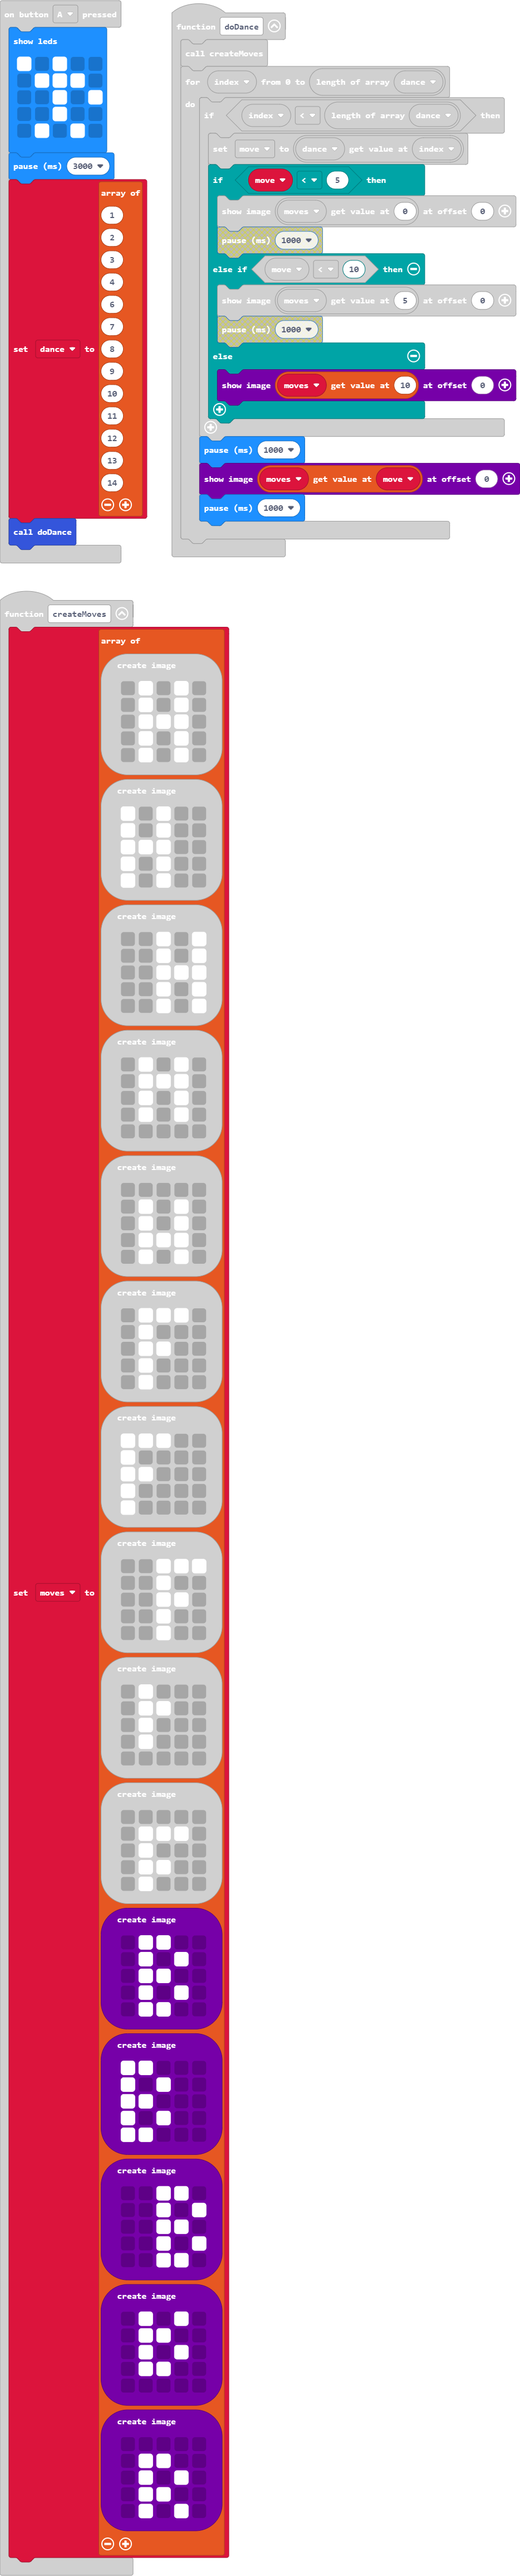
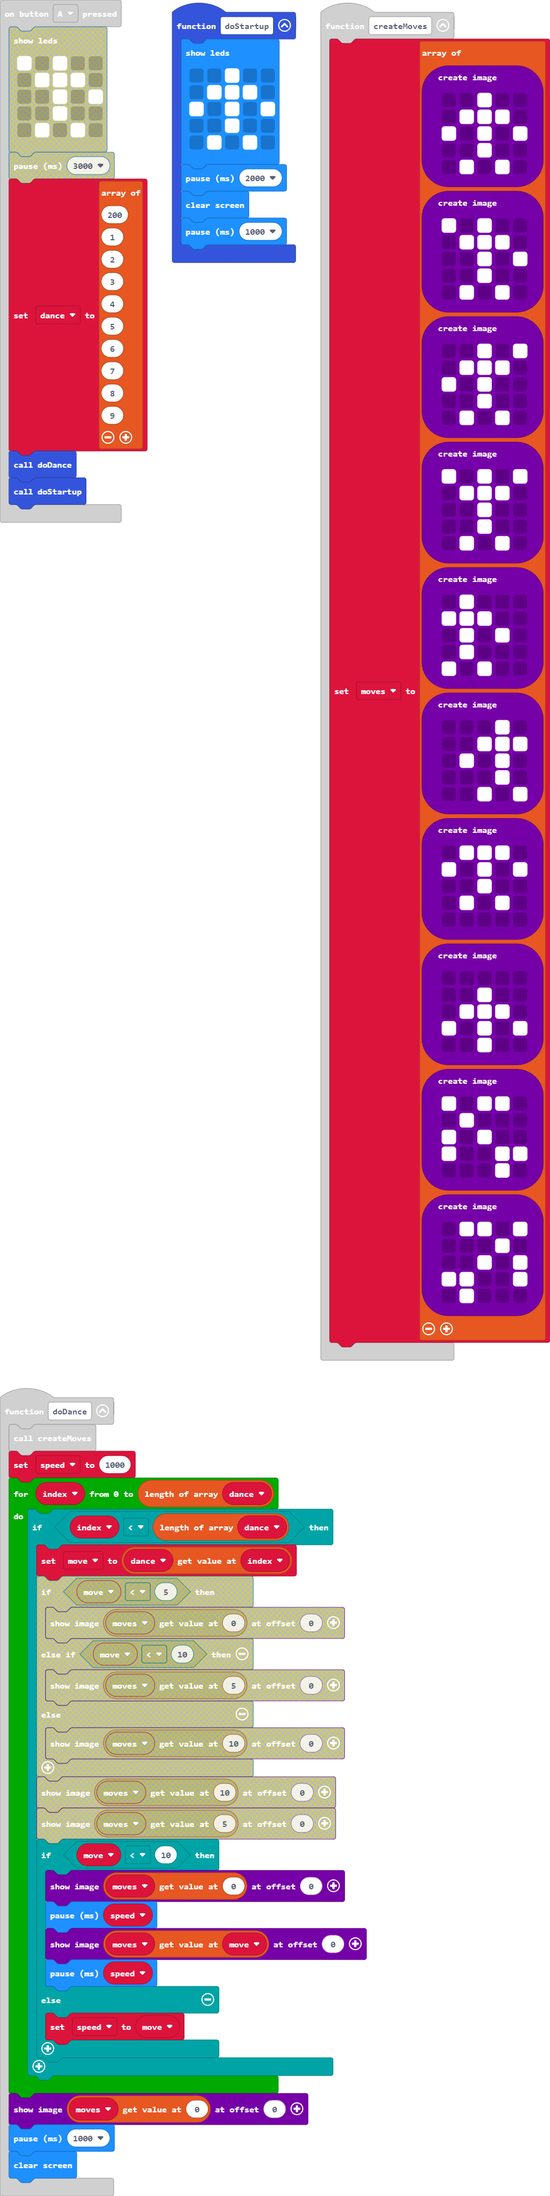
Update main.blocks, main.ts

diff --git a/main.ts b/main.ts
@@ -1,156 +1,126 @@
 let moves: Image[] = []
 let dance: number[] = []
+let speed = 0
 let move = 0
 function createMoves () {
     moves = [
     images.createImage(`
-        . # . # .
-        . # . # .
+        . . # . .
         . # # # .
-        . # . # .
+        # . # . #
+        . . # . .
         . # . # .
         `),
     images.createImage(`
         # . # . .
+        . # # # .
+        . . # . #
+        . . # . .
+        . # . # .
+        `),
+    images.createImage(`
+        . . # . #
+        . # # # .
         # . # . .
+        . . # . .
+        . # . # .
+        `),
+    images.createImage(`
+        # . # . #
+        . # # # .
+        . . # . .
+        . . # . .
+        . # . # .
+        `),
+    images.createImage(`
+        . # . . .
         # # # . .
-        # . # . .
+        . # . # .
+        . # . . .
         # . # . .
         `),
     images.createImage(`
-        . . # . #
-        . . # . #
+        . . . # .
         . . # # #
+        . # . # .
+        . . . # .
         . . # . #
-        . . # . #
         `),
     images.createImage(`
-        . # . # .
         . # # # .
-        . # . # .
+        # . # . #
+        . . # . .
         . # . # .
         . . . . .
         `),
     images.createImage(`
         . . . . .
-        . # . # .
-        . # . # .
-        . # # # .
-        . # . # .
-        `),
-    images.createImage(`
-        . # # # .
-        . # . . .
-        . # # . .
-        . # . . .
-        . # . . .
-        `),
-    images.createImage(`
-        # # # . .
-        # . . . .
-        # # . . .
-        # . . . .
-        # . . . .
-        `),
-    images.createImage(`
-        . . # # #
         . . # . .
-        . . # # .
-        . . # . .
+        . # # # .
+        # . # . #
         . . # . .
         `),
     images.createImage(`
+        # . # # .
         . # . . .
-        . # # . .
-        . # . . .
-        . # . . .
-        . . . . .
-        `),
-    images.createImage(`
-        . . . . .
-        . # # # .
-        . # . . .
-        . # # . .
-        . # . . .
-        `),
-    images.createImage(`
-        . # # . .
-        . # . # .
-        . # # . .
-        . # . # .
-        . # # . .
-        `),
-    images.createImage(`
-        # # . . .
         # . # . .
-        # # . . .
-        # . # . .
-        # # . . .
+        # . . # #
+        . . . # .
         `),
     images.createImage(`
-        . . # # .
+        . # # . #
+        . . . # .
         . . # . #
-        . . # # .
-        . . # . #
-        . . # # .
-        `),
-    images.createImage(`
-        . # . # .
-        . # # . .
-        . # . # .
-        . # # . .
-        . . . . .
-        `),
-    images.createImage(`
-        . . . . .
-        . # # . .
-        . # . # .
-        . # # . .
-        . # . # .
+        # # . . #
+        . # . . .
         `)
     ]
 }
-input.onButtonPressed(Button.A, function () {
+function doStartup () {
     basic.showLeds(`
-        # . # . .
+        . . # . .
         . # # # .
-        . . # . #
+        # . # . #
         . . # . .
         . # . # .
         `)
-    basic.pause(3000)
+    basic.pause(2000)
+    basic.clearScreen()
+    basic.pause(1000)
+}
+input.onButtonPressed(Button.A, function () {
+    doStartup()
     dance = [
+    200,
     1,
     2,
     3,
     4,
+    5,
     6,
     7,
     8,
-    9,
-    10,
-    11,
-    12,
-    13,
-    14
+    9
     ]
     doDance()
 })
 function doDance () {
     createMoves()
+    speed = 1000
     for (let index = 0; index <= dance.length; index++) {
         if (index < dance.length) {
             move = dance[index]
-            if (move < 5) {
+            if (move < 10) {
                 moves[0].showImage(0)
-            } else if (move < 10) {
-                moves[5].showImage(0)
+                basic.pause(speed)
+                moves[move].showImage(0)
+                basic.pause(speed)
             } else {
-                moves[10].showImage(0)
+                speed = move
             }
         }
-        basic.pause(1000)
-        moves[move].showImage(0)
-        basic.pause(1000)
     }
+    moves[0].showImage(0)
+    basic.pause(1000)
+    basic.clearScreen()
 }
